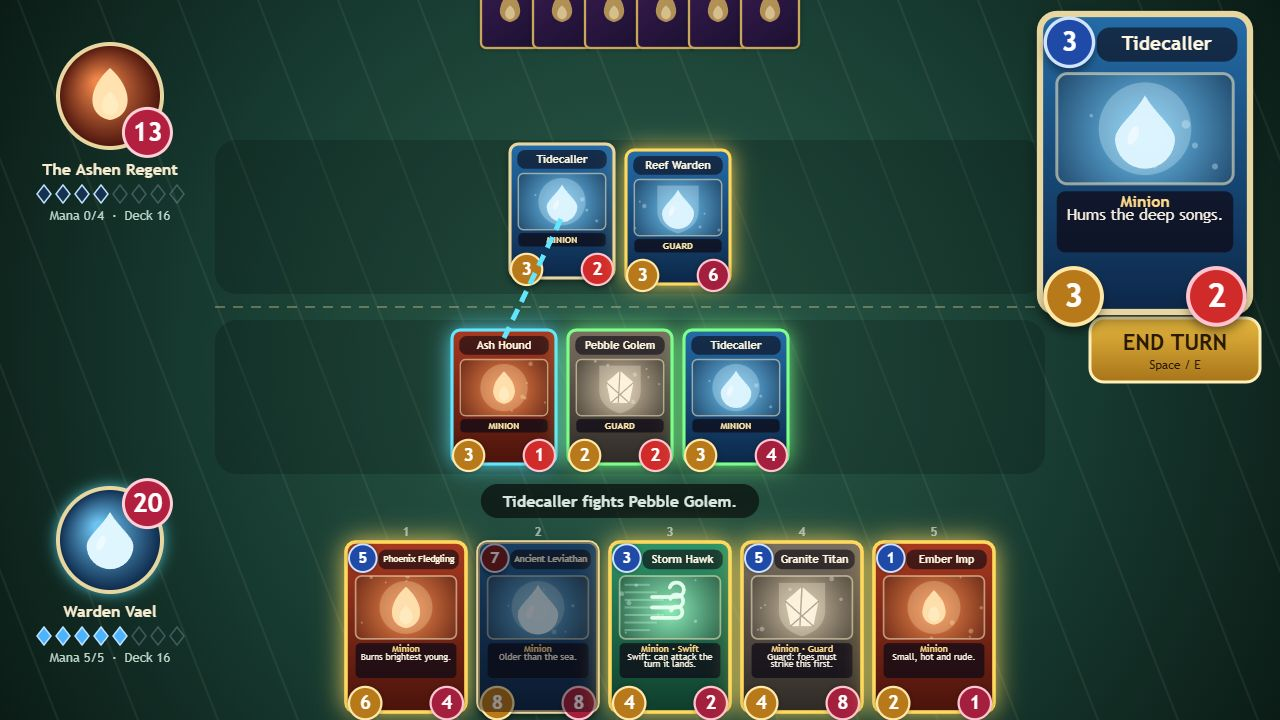
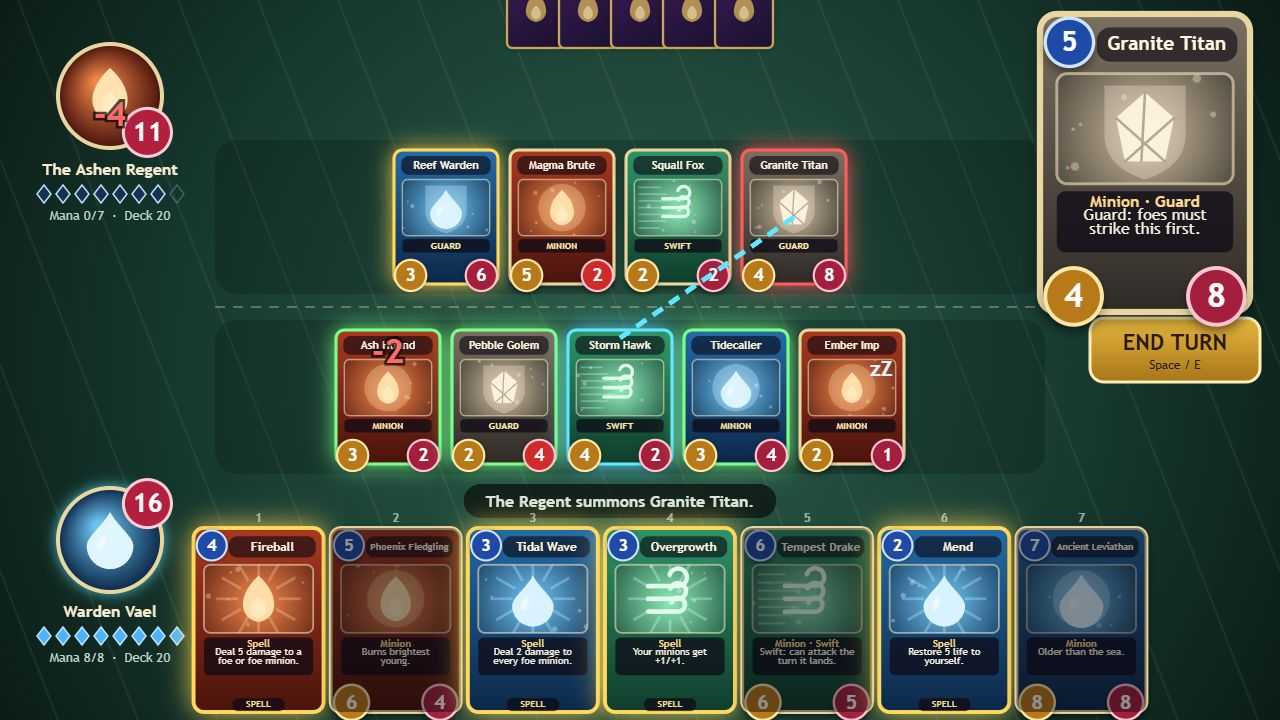
Larger hand cards and a fuller showcase position for the table screenshot

diff --git a/game/src/shots.js b/game/src/shots.js
@@ -1,17 +1,37 @@
 // Fixed positions for the maker's screenshots: index.html?shot=start|play|win|loss&seed=N renders
 // one still frame of the real game, so the screenshots under screenshots/ come from this code.
 
-import { aiStep } from './ai.js';
 import { newUi, startDuel } from './ui.js';
-import { boardRects } from './layout.js';
+import { boardRects, heroCircle } from './layout.js';
+import { summon } from './rules.js';
 
-function playUntil(ui, turnNum) {
+// A mid-duel position built with the game's own rules: full boards, a full hand, Guard minions in the way.
+function stageMidDuel(ui) {
   const g = ui.g;
-  while (g.winner === null && !(g.turnNum >= turnNum && g.turn === 0)) {
-    let guard = 0;
-    while (aiStep(g) && guard++ < 200);
-  }
+  const [me, foe] = g.sides;
+  for (const id of ['hound', 'golem', 'hawk', 'caller', 'imp']) summon(g, 0, id, id !== 'imp');
+  for (const id of ['warden', 'brute', 'fox', 'titan']) summon(g, 1, id, true);
+  me.board[1].hp = 4;
+  foe.board[1].hp = 2;
+  me.hand = ['fireball', 'phoenix', 'wave', 'growth', 'drake', 'mend', 'leviathan'];
+  foe.hand.length = 5;
+  me.life = 16;
+  foe.life = 11;
+  me.maxMana = 8;
+  me.mana = 8;
+  foe.maxMana = 7;
+  g.turn = 0;
+  g.turnNum = 15;
+  g.log.push('The Regent summons Granite Titan.');
   g.events.length = 0;
+  ui.sel = { kind: 'minion', idx: 2 };
+  const titan = boardRects(1, foe.board.length)[3];
+  ui.mouse = { x: titan.x + titan.w / 2, y: titan.y + titan.h / 2 };
+  ui.hover = { kind: 'board', side: 1, idx: 3 };
+  const face = heroCircle(1);
+  const mid = boardRects(0, me.board.length)[0];
+  ui.floaters.push({ x: face.x, y: face.y + 30, text: '-4', color: '#ff6a6a', t0: ui.time - 0.2 });
+  ui.floaters.push({ x: mid.x + mid.w / 2, y: mid.y + 40, text: '-2', color: '#ff6a6a', t0: ui.time - 0.35 });
 }
 
 export function buildShot(name, seed) {
@@ -19,21 +39,11 @@ export function buildShot(name, seed) {
   ui.time = 3;
   if (name === 'start') return ui;
   startDuel(ui, seed);
-  playUntil(ui, 9);
-  ui.g.events.length = 0;
-  ui.banner = null;
-  if (name === 'play') {
-    const foes = ui.g.sides[1].board;
-    const mine = ui.g.sides[0].board;
-    const ready = mine.findIndex((m) => !m.sick && !m.attacked && m.atk > 0);
-    if (ready >= 0 && foes.length > 0) {
-      ui.sel = { kind: 'minion', idx: ready };
-      const rect = boardRects(1, foes.length)[0];
-      ui.mouse = { x: rect.x + rect.w / 2, y: rect.y + rect.h / 2 };
-      ui.hover = { kind: 'board', side: 1, idx: 0 };
-    }
-    return ui;
-  }
+  stageMidDuel(ui);
+  if (name === 'play') return ui;
+  ui.sel = null;
+  ui.hover = null;
+  ui.floaters = [];
   if (name === 'win') {
     ui.g.sides[1].life = 0;
     ui.g.winner = 0;

diff --git a/game/src/layout.js b/game/src/layout.js
@@ -2,7 +2,7 @@
 
 export const W = 1280;
 export const H = 720;
-export const CARD_SIZE = { hand: { w: 120, h: 170 }, board: { w: 104, h: 134 } };
+export const CARD_SIZE = { hand: { w: 130, h: 184 }, board: { w: 104, h: 134 } };
 export const HAND_LIFT = 28;
 export const END_BUTTON = { x: 1090, y: 318, w: 170, h: 64 };
 export const PREVIEW = { x: 1040, y: 14, w: 210, h: 298 };
@@ -12,7 +12,7 @@ export const START_BUTTON = { x: 520, y: 596, w: 240, h: 62 };
 
 export function handRects(count) {
   const { w, h } = CARD_SIZE.hand;
-  const spacing = Math.min(132, 900 / Math.max(count, 1));
+  const spacing = Math.min(140, 960 / Math.max(count, 1));
   const total = (count - 1) * spacing + w;
   const startX = 640 - total / 2 + 30;
   const rects = [];

diff --git a/game/src/rules.js b/game/src/rules.js
@@ -119,6 +119,14 @@ function makeMinion(g, card) {
   };
 }
 
+// Puts a minion straight onto a side's board (used to stage showcase positions).
+export function summon(g, sideIdx, cardId, ready) {
+  const m = makeMinion(g, CARDS[cardId]);
+  m.sick = !ready;
+  g.sides[sideIdx].board.push(m);
+  return m;
+}
+
 export function guardIndexes(g, sideIdx) {
   const out = [];
   g.sides[sideIdx].board.forEach((m, i) => {
